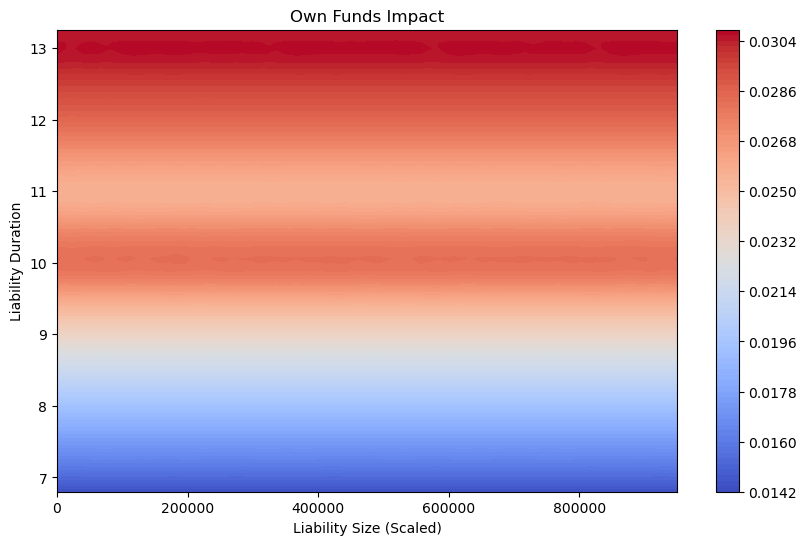
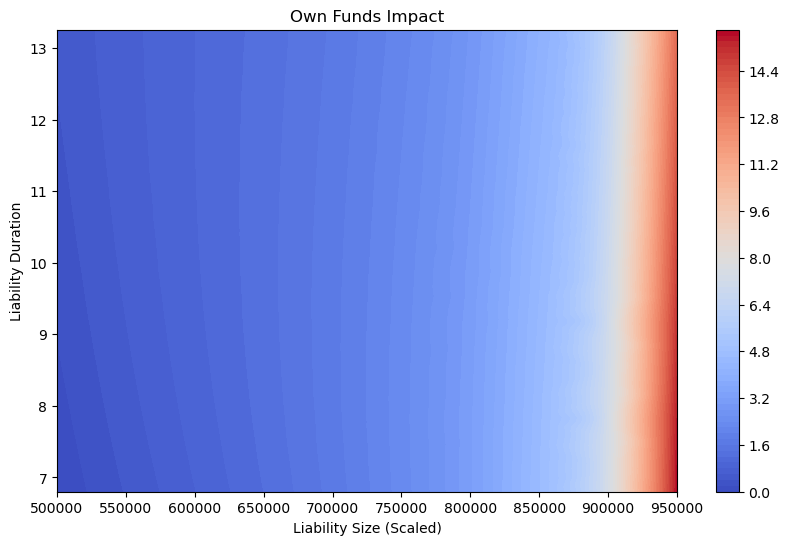
SII Review Tool: Fix bug in sensitivity analysis.

diff --git a/main.py b/main.py
@@ -29,11 +29,16 @@ def main():
 
     # Define scenarios
     scenarios = [
-        {'name': 'base_interest_base_spreads', 'irshift': 0, 'csshift': 0, 'vaspread': 27},
-        {'name': 'low_interest_base_spreads', 'irshift': -200, 'csshift': 0, 'vaspread': 27},
-        {'name': 'base_interest_high_spreads', 'irshift': 200, 'csshift': 100, 'vaspread': 45},
-        {'name': 'high_interest_base_spreads', 'irshift': 200, 'csshift': 0, 'vaspread': 45},
-        {'name': 'high_interest_high_spreads', 'irshift': 200, 'csshift': 100, 'vaspread': 27},
+        {'name': 'base_interest_base_spreads',
+            'irshift': 0, 'csshift': 0, 'vaspread': 27},
+        {'name': 'low_interest_base_spreads',
+            'irshift': -200, 'csshift': 0, 'vaspread': 27},
+        {'name': 'base_interest_high_spreads',
+            'irshift': 200, 'csshift': 100, 'vaspread': 45},
+        {'name': 'high_interest_base_spreads',
+            'irshift': 200, 'csshift': 0, 'vaspread': 45},
+        {'name': 'high_interest_high_spreads',
+            'irshift': 200, 'csshift': 100, 'vaspread': 27},
     ]
     # scenarios = [
     #     {'name': 'low_interest_low_spreads', 'irshift': 0}
@@ -105,7 +110,7 @@ def main():
         va_calc = VASpreadCalculator(
             va_spreads_shifted, cp.fi_asset_size, cp.liability_size, cp.pvbp_fi_assets, cp.pvbp_liabs)
         va_new = va_calc.compute_total_va()
-        print(va_new)
+        # print(va_new)
 
         zero_boot_withNewVA = ext_alt.zero_boot_withVA(
             df_boot['Forward_CC'].values, cp.max_tenorofAlt, cp.FSP, va_new)
@@ -155,12 +160,38 @@ def main():
         curve_plotter.plot_comparison(
             pairs, scenario=scenario["name"], output_path='outputs/curves/')
 
+
+        # Impact Assessment | Sensitivity Analysis w.r.t OF Sizes and Duration Gaps
         results_impact = []
-        # if 'low_interest_low_spreads' in scenario.values():
-        for liability_size in np.arange(0, cp.asset_size, cp.asset_size/20.0):
+        for liability_size in np.arange(0.5*cp.asset_size, cp.asset_size, cp.asset_size/20.0):
             for liability_duration in np.arange(cp.asset_duration, 2 * cp.asset_duration, cp.asset_duration/20.0):
+
+                # Recompute new VA 
+                va_calc = VASpreadCalculator(
+                    va_spreads_shifted, cp.fi_asset_size, liability_size=liability_size, pvbp_fi_assets=cp.pvbp_fi_assets, pvbp_liabs=0.1*liability_duration)
+                va_new = va_calc.compute_total_va()
+
+                zero_boot_withNewVA = ext_alt.zero_boot_withVA(
+                    df_boot['Forward_CC'].values, cp.max_tenorofAlt, cp.FSP, va_new)
+
+                # Recompute LLFR with VA-laden zeros
+                llfr_withNewVA = ext_alt.get_llfr(
+                    zero_rates=zero_boot_withNewVA,
+                    dlt=dlt_array,
+                    weights=weight_array
+                )
+
+                # Recompute Alternative Extrapolation with recomputed VA
+                results_Alt_withNewVA = ext_alt.alternative_extrapolation(
+                    zero_rates=zero_boot_withNewVA,
+                    FSP=cp.FSP,
+                    UFR=cp.UFR,
+                    LLFR=llfr_withNewVA,
+                    alpha=cp.alpha
+                )
+
                 impact_df = impact_calc.assess_impact(
-                    asset_size=cp.asset_size, asset_duration=cp.asset_duration, liability_size=cp.liability_size, liability_duration=liability_duration, discount_curve_SWWithVA=results_SW_withVA[[
+                    asset_size=cp.asset_size, asset_duration=cp.asset_duration, liability_size=liability_size, liability_duration=liability_duration, discount_curve_SWWithVA=results_SW_withVA[[
                         'Tenors', 'Zero_CC']], discount_curve_AltWithVA=results_Alt_withNewVA[['Tenors', 'Zero_CC']], discount_curve_assets=df_boot[['Tenors', 'Zero_CC']]
                 )
                 results_impact.append(
